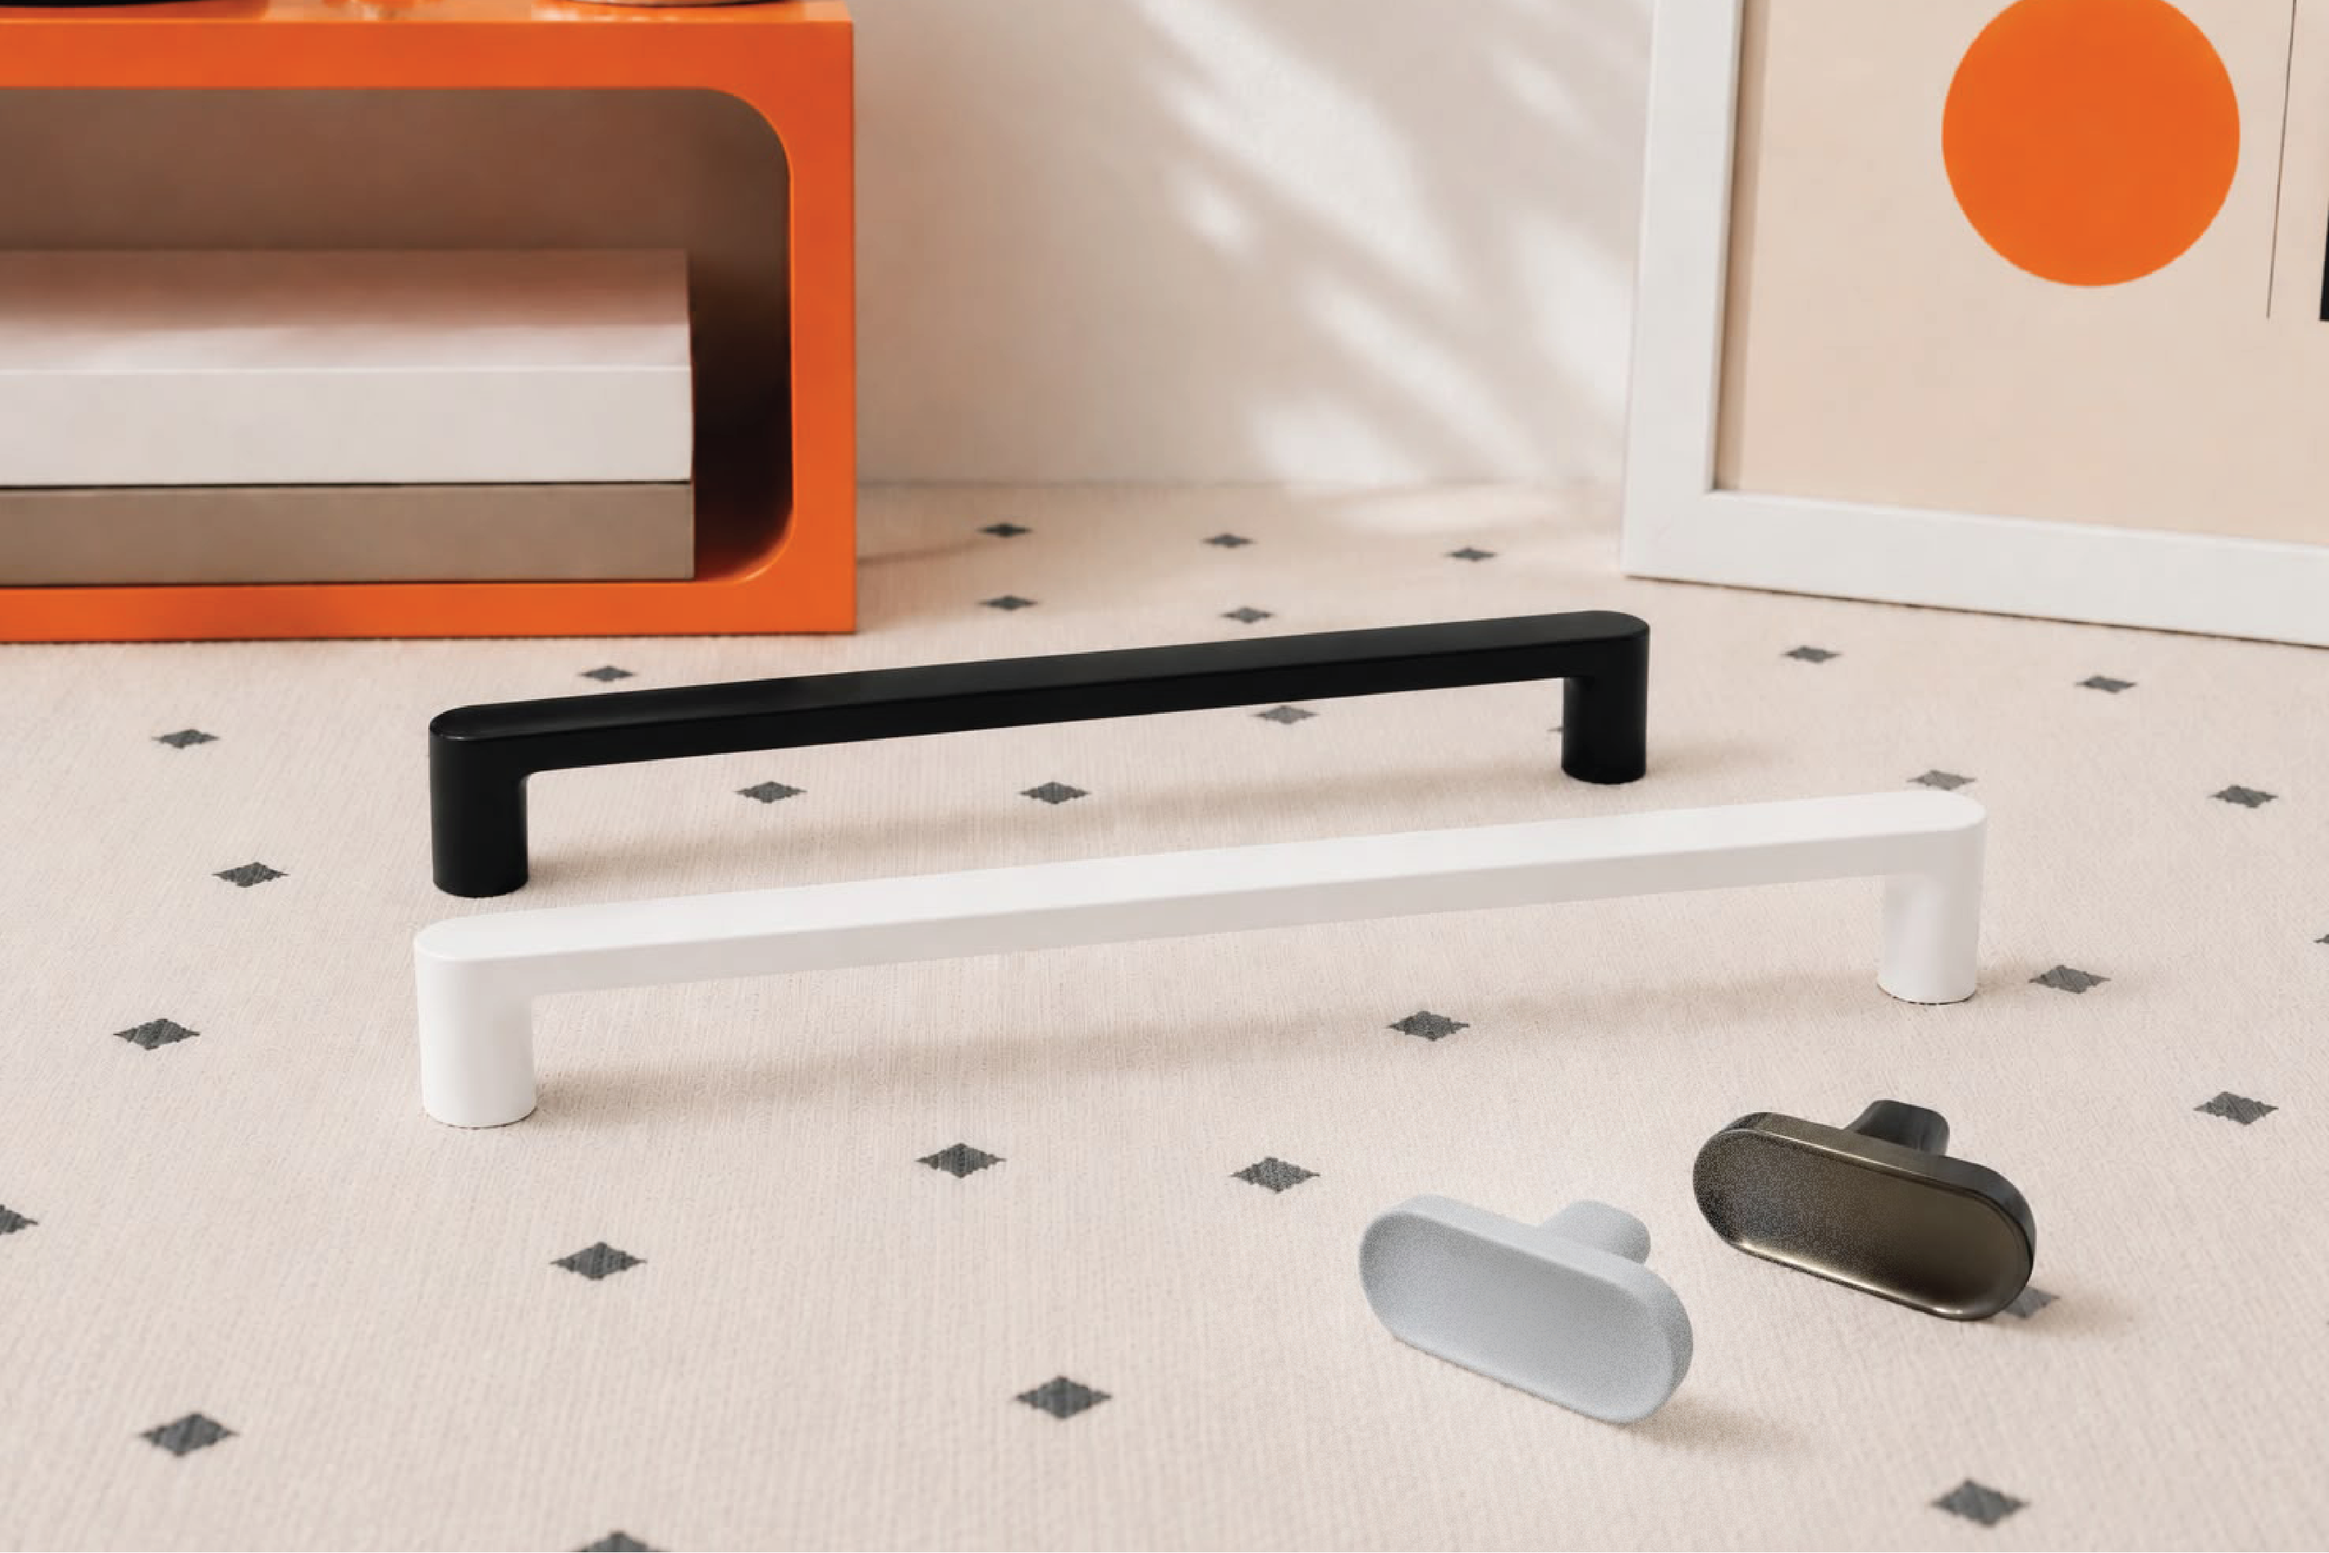
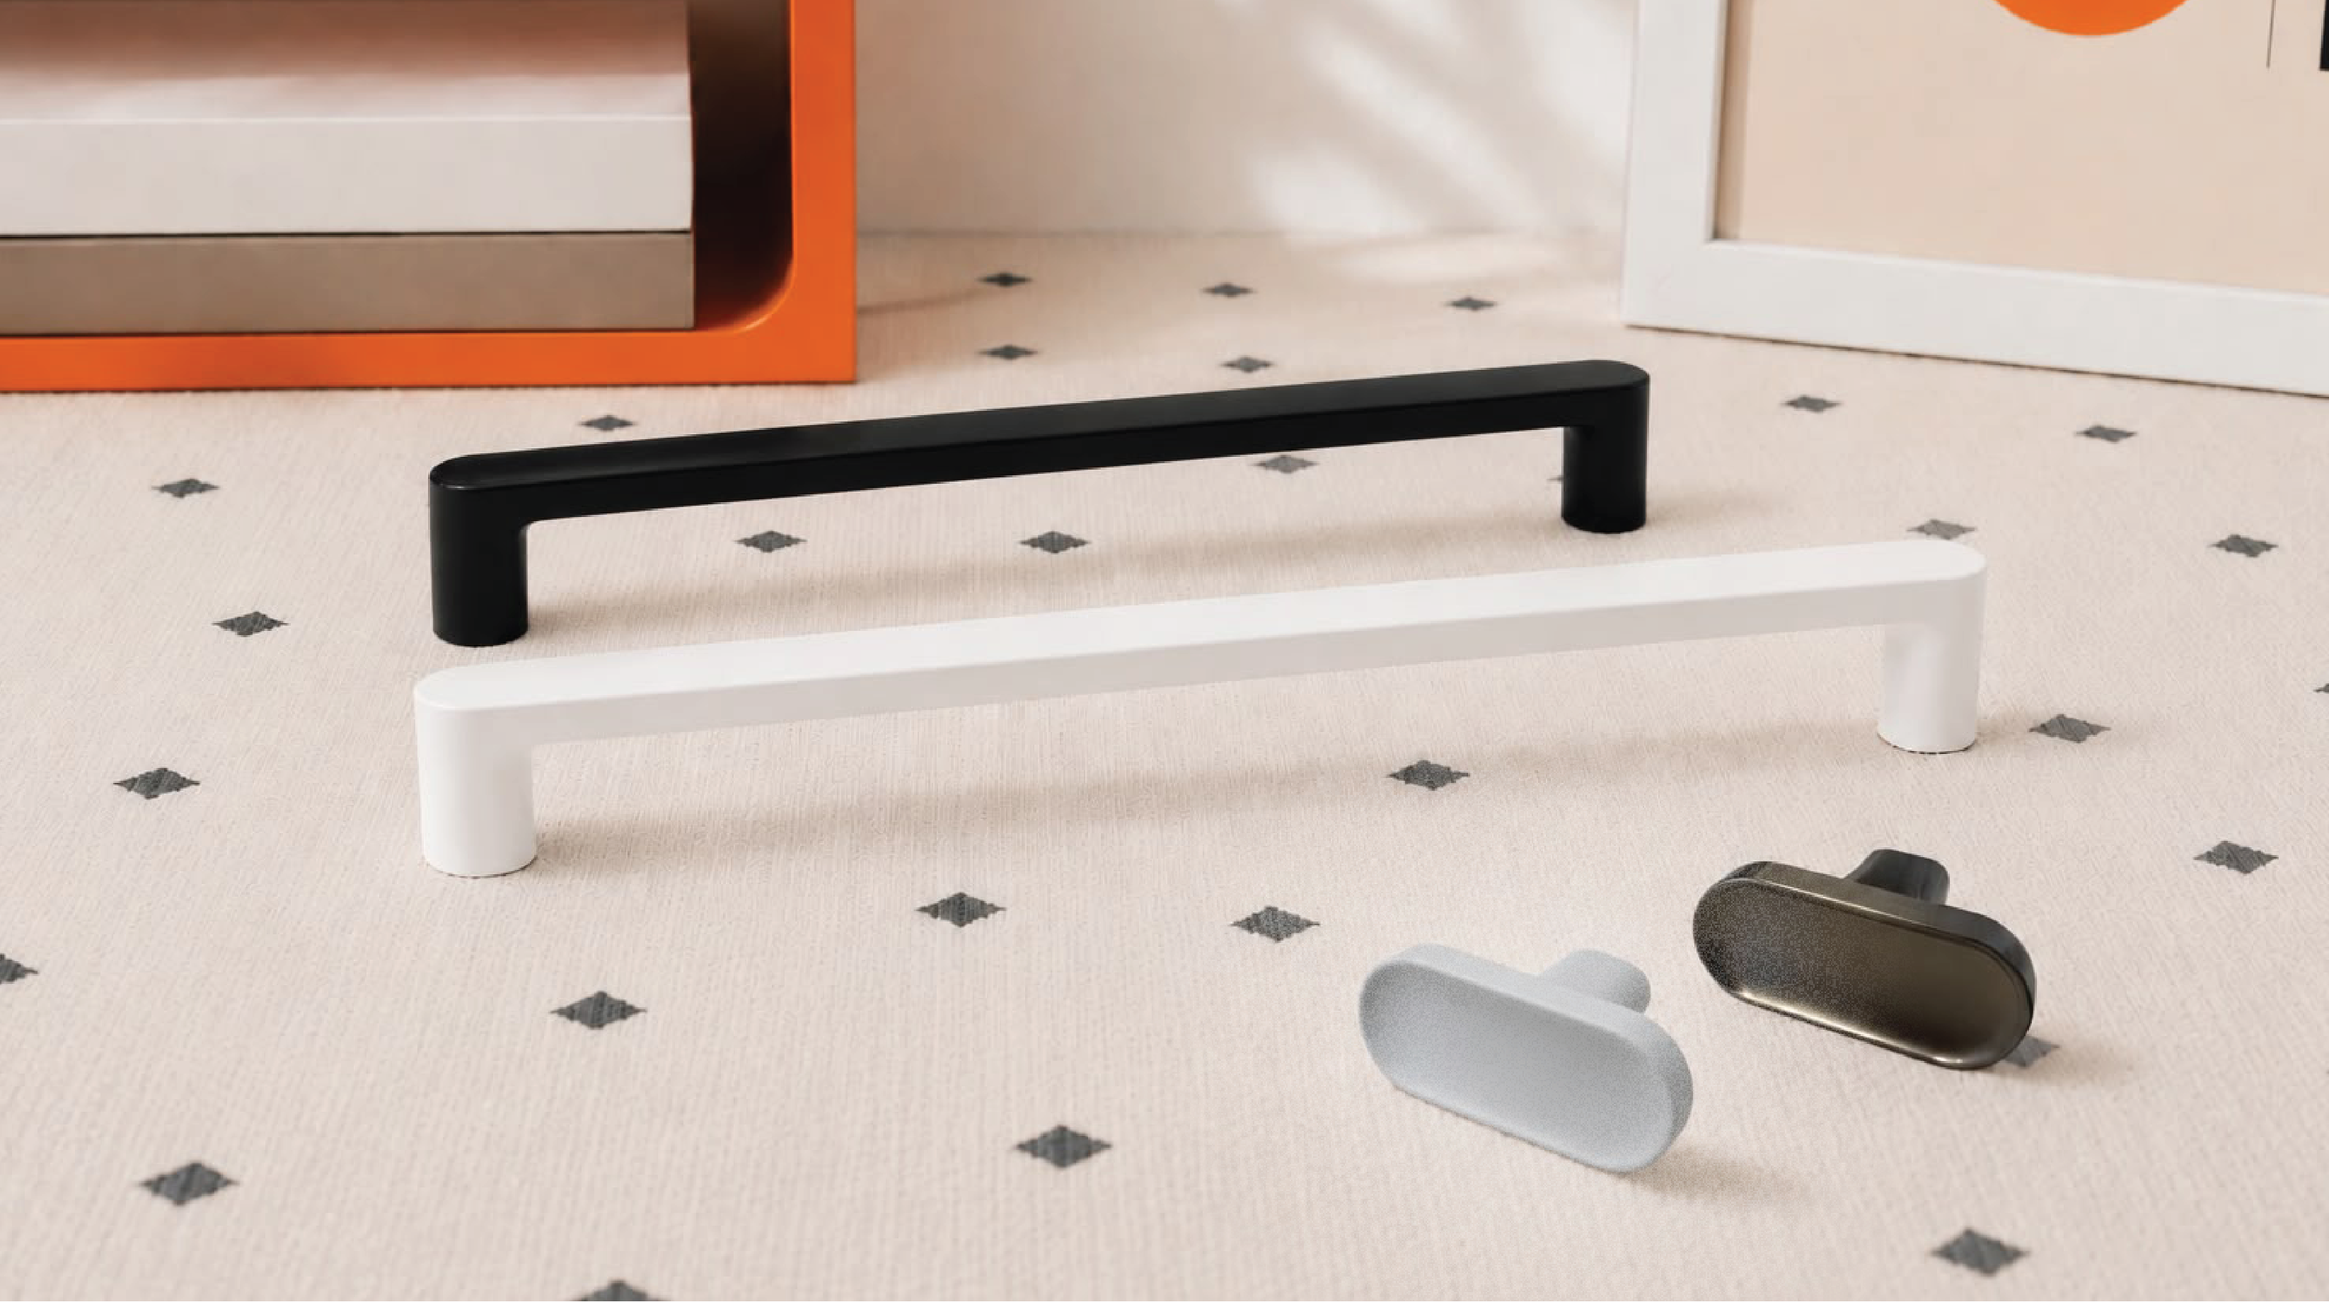
Save local changes

diff --git a/index.html b/index.html
@@ -708,7 +708,6 @@ body, html{
 .finish-card:hover{
   transform:translateY(-8px);
   border-color:#b00020;
-  box-shadow:0 20px 50px rgba(0,0,0,.4);
 }
 
 .finish-image{
@@ -3294,7 +3293,7 @@ height="0" width="0" style="display:none;visibility:hidden"></iframe></noscript>
 
   <!-- Slide 1 -->
   <div class="hero-slide active">
-    <img src="A34d.webp" alt="Refined Handle Design">
+    <img src="A28all.png" alt="Refined Handle Design">
 
     <div class="hero-content">
       <h1>REFINED<br><span>HANDLE DESIGN</span></h1>
@@ -3313,7 +3312,7 @@ height="0" width="0" style="display:none;visibility:hidden"></iframe></noscript>
 
   <!-- Slide 2 -->
   <div class="hero-slide">
-    <img src="A42.webp" alt="Modern Living Space">
+    <img src="A42.png" alt="Modern Living Space">
 
     <div class="hero-content">
       <h1>MODERN<br><span>LIVING SPACE</span></h1>
@@ -3324,7 +3323,7 @@ height="0" width="0" style="display:none;visibility:hidden"></iframe></noscript>
 
   <!-- Slide 3 -->
   <div class="hero-slide">
-    <img src="A36all2.webp" alt="Precision Crafted Detail">
+    <img src="A36all2.png" alt="Precision Crafted Detail">
 
     <div class="hero-content">
       <h1>PRECISION<br><span>CRAFTED DETAIL</span></h1>
